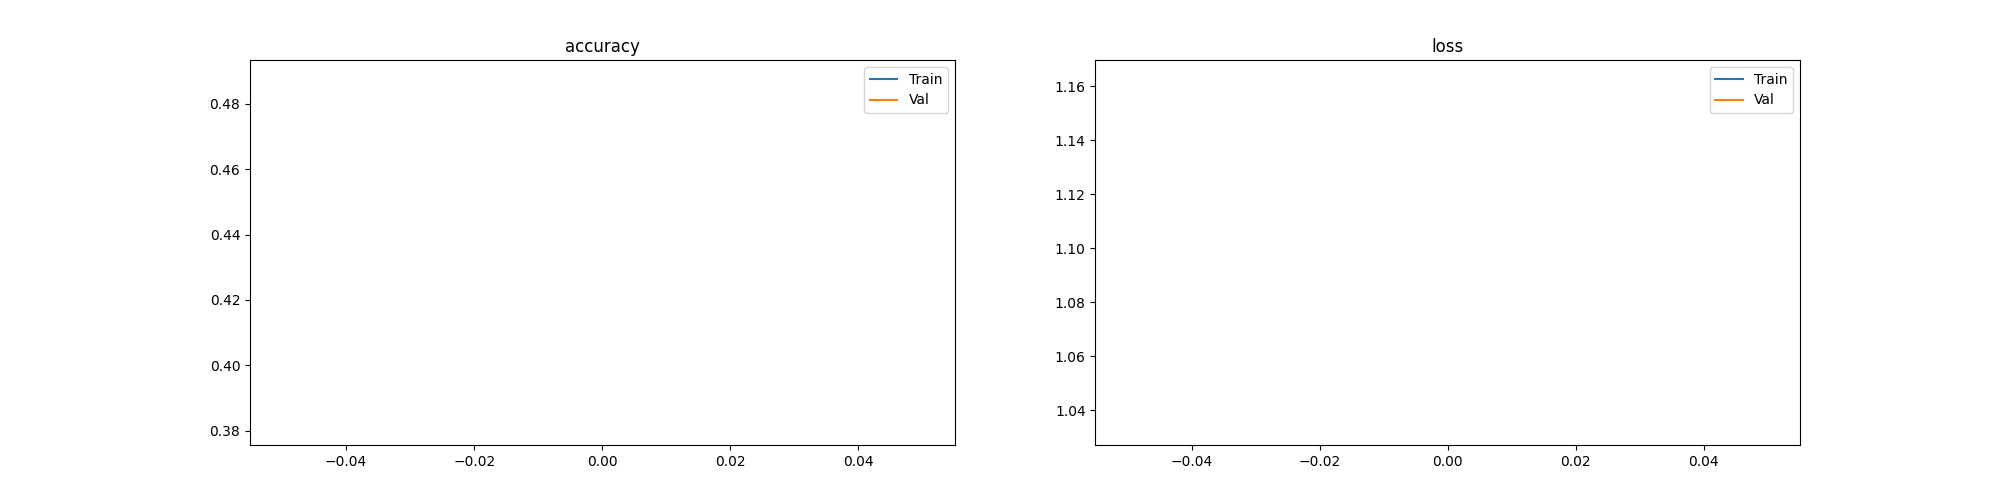
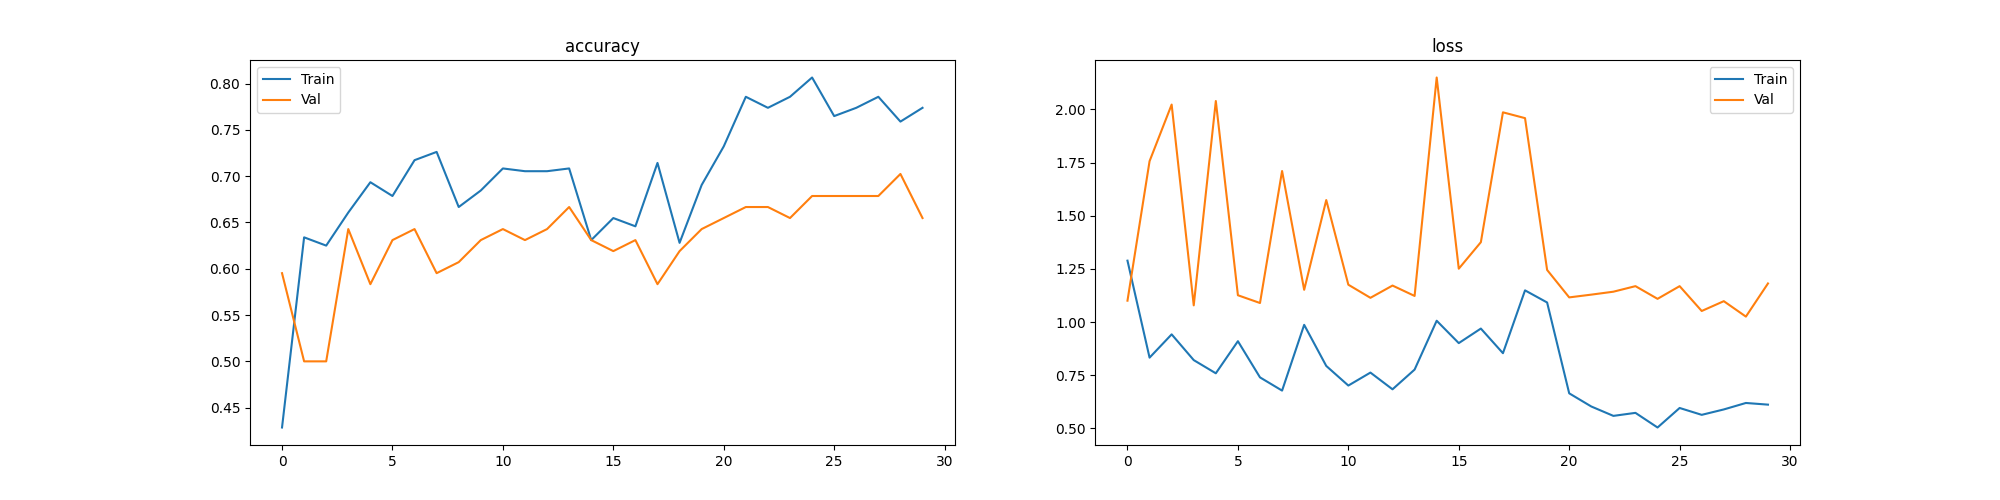
update model

diff --git a/training.py b/training.py
@@ -9,6 +9,7 @@ import torch.nn as nn
 from losses import FocalLoss
 from torch.optim import lr_scheduler
 import os
+from data import load_data
 
 
 
@@ -161,7 +162,8 @@ class PyTorchTrainable(tune.Trainable):
         # self.train_data_loader, self.valid_data_loader = load_data(BATCH_SIZE, NUM_WORKERS)
         
         # self.train_data_loader, self.valid_data_loader = self.trainable_data_loaderp["train"], self.trainable_data_loader["val"]
-        self.train_data_loader, self.valid_data_loader = config["data"][0]["train"], config["data"][0]["val"]
+        data_loader = load_data(32)[0]
+        self.train_data_loader, self.valid_data_loader= data_loader["train"], data_loader["val"]
         # create model        
         # base_model = torchvision.models.resnet50(pretrained=True)
         # for param in base_model.parameters():
@@ -171,7 +173,7 @@ class PyTorchTrainable(tune.Trainable):
         drop_rate = config.get("drop_rate", 0.0)        
         activation = config.get("activation", nn.ReLU(True))        
         base_model = config.get("base_model")
-        use_classifier = config.get("use_classifier")
+        use_classifier = config.get("use_classifier", False)
         loss = config.get("loss")
         
         # self.model = SimpleNet(base_model, 2048, num_units, drop_rate, activation)
@@ -185,7 +187,7 @@ class PyTorchTrainable(tune.Trainable):
             lr=config.get("learning_rate", 1e-4), 
             momentum=config.get("momentum", 0.9)
         )
-        self.exp_lr_scheduler = lr_scheduler.StepLR(self.optimizer, step_size=20, gamma=0.1)
+        # self.exp_lr_scheduler = lr_scheduler.StepLR(self.optimizer, step_size=20, gamma=0.1)
         
         
     def _train_step(self):
@@ -201,15 +203,18 @@ class PyTorchTrainable(tune.Trainable):
             labels = labels.to(self.device)
 
             self.optimizer.zero_grad()
+            
             with torch.set_grad_enabled(True):
-                preds = self.model(images)
-                loss = self.criterion(preds, labels)
+                outputs = self.model(images)
+                _, preds = torch.max(outputs, 1)
+                loss = self.criterion(outputs, labels)
+                loss.backward()
                 self.optimizer.step()
                 # track losses
                 epoch_loss += loss.item()
-                _, predicted = torch.max(preds.data, 1)
-                running_corrects += torch.sum(predicted == labels).item()
-        self.exp_lr_scheduler.step()
+
+                running_corrects += torch.sum(preds == labels).item()
+        # self.exp_lr_scheduler.step()
                 
         loss = epoch_loss/len(self.train_data_loader)
         corrects = running_corrects/len(self.train_data_loader)
@@ -218,29 +223,37 @@ class PyTorchTrainable(tune.Trainable):
     def _test_step(self):
         """Single test loop
         """        
+        epoch_loss = 0
         # set to model to eval mode
         self.model.eval()
         running_corrects = 0
-        for images, labels  in self.train_data_loader:
-            images = images.to(self.device)
-            labels = labels.to(self.device)
-            preds = self.model(images)
-            loss = self.criterion(preds, labels)
-            _, predicted = torch.max(preds.data, 1)
-            running_corrects += torch.sum(predicted == labels).item()
-                
-        corrects = running_corrects/len(self.valid_data_loader)
-        return corrects
+        with torch.inference_mode():
+            for images, labels  in self.valid_data_loader:
+                images = images.to(self.device)
+                labels = labels.to(self.device)
+                outputs = self.model(images)
+                _, preds = torch.max(outputs, 1)
+                # preds = self.model(images)
+                loss = self.criterion(outputs, labels)
+                epoch_loss += loss.item()
+                # predicted = torch.argmax(torch.softmax(preds,dim=1),dim=1)
+                running_corrects += torch.sum(preds == labels).item()
+                    
+            corrects = running_corrects/len(self.valid_data_loader)
+            loss = epoch_loss/len(self.valid_data_loader)
+            return corrects, loss
     
     def step(self):
         """Single training step
         """
         train_loss, train_acc = self._train_step()
-        test_acc = self._test_step()
+        test_acc, test_loss = self._test_step()
+
         return {
-            "train_loss": train_loss, 
-            "train_accuracy": train_acc,
-            "mean_accuracy": test_acc
+            "trloss": train_loss,
+            "tr_acc": train_acc,
+            "tst_acc": test_acc,
+            "tst_loss": test_loss
         }
 
     def save_checkpoint(self, dirname):

diff --git a/hyper_tune.py b/hyper_tune.py
@@ -1,25 +1,31 @@
 from ray import tune
 from ray.tune.schedulers import ASHAScheduler
 from training import PyTorchTrainable
-import ray
-import torch.nn as nn
-from data import load_data
-import argparse
-import os
-import torch
+from ray.tune import CLIReporter
+# import ray
+# import torch.nn as nn
 
+import argparse
+# import os
+import torch
+from ray.tune.search.hyperopt import HyperOptSearch
+from ray import air
 gpu_n = 0
 cpu_n = 0
 
 
 parser = argparse.ArgumentParser(
-                    prog = 'Hyperparameter Tuning',
-                    description = 'check different hyperparameters using ray tune and pytorch',
-                    epilog = 'you can change only number of cpus and gpus using command line.')
+    prog='Hyperparameter Tuning',
+    description='check different hyperparameters using ray tune and pytorch',
+    epilog='you can change only number of cpus and gpus using command line.')
 
 
-parser.add_argument('--cpu', type=int, help="number of cpus to use for processing", default=2)           # positional argument
-parser.add_argument('--gpu', type=int, help="number of gpus to use for processing", default=1)           # positional argument
+# positional argument
+parser.add_argument('--cpu', type=int,
+                    help="number of cpus to use for processing", default=2)
+# positional argument
+parser.add_argument('--gpu', type=int,
+                    help="number of gpus to use for processing", default=1)
 
 
 args = parser.parse_args()
@@ -29,17 +35,17 @@ if args.gpu > 0:
         gpu_n = 0
 cpu_n = args.cpu
 
-
-config = {
-    "hidden_units": tune.grid_search([ 64, 128, 256]),
-    "drop_rate": tune.uniform(0.0, 0.8),
-    "activation": tune.choice([nn.ReLU(True), nn.ELU(True), nn.SELU(True)]),
-    "learning_rate": tune.loguniform(1e-4, 1e-1),
+gpu_n = 1
+cpu_n = 10
+search_space = {
+    # "hidden_units": tune.grid_search([ 512, 128, 256]),
+    # "drop_rate": tune.uniform(0.0, 0.8),
+    # "activation": tune.choice([nn.ReLU(True), nn.ELU(True), nn.SELU(True)]),
+    "learning_rate": tune.loguniform(1e-3, 1e-1),
     "momentum": tune.uniform(0.1, 0.9),
-    "data" : load_data(os.path.join(os.path.abspath(os.getcwd()),"MYCATI/"),64),
-    "base_model": tune.choice(["vgg","resnet"]),
-    "use_classifier": tune.choice([True,False]),
-    "loss": tune.choice(["focal","cross"]),
+    # "base_model": tune.choice(["vgg", "resnet"]),
+    "base_model": tune.choice([ "resnet"]),
+    "loss": tune.choice(["focal", "cross"]),
 
 }
 
@@ -47,26 +53,36 @@ config = {
 scheduler = ASHAScheduler(metric="mean_accuracy", mode="max")
 
 
+search_alg = HyperOptSearch()
 
-from datetime import datetime
-from time import time
-ray.shutdown()
+if gpu_n > 0:
+    trainable = tune.with_resources(
+        PyTorchTrainable, {"gpu": gpu_n, "cpu": cpu_n})
+else:
+    trainable = PyTorchTrainable
 
-# ray.init(dashboard_host="0.0.0.0")
 
-start = time()
-# run trials
-analysis = tune.run(
-    PyTorchTrainable,
-    config=config,
-    num_samples=15, # runs 15 jobs with separate sample from the search space
-    checkpoint_at_end=True,
-    checkpoint_freq=3,    
-    scheduler=scheduler,
-    stop={"training_iteration": 50},
-    resources_per_trial={"cpu": cpu_n, "gpu": gpu_n}
-   
+reporter = CLIReporter(max_progress_rows=50)
+metric_list = ["trloss", "tr_acc", "tst_acc", "tst_loss"]
+for metric in metric_list:
+    reporter.add_metric_column(metric)
 
-   
+
+tuner = tune.Tuner(
+    trainable,
+    param_space=search_space,
+    tune_config=tune.TuneConfig(
+        num_samples=5,
+        metric="tst_loss",
+        mode="min",
+        max_concurrent_trials=10,
+        search_alg=search_alg
+    ),
+    run_config=air.RunConfig(
+        progress_reporter=reporter,
+        stop=tune.stopper.MaximumIterationStopper(50)
+        )
 )
-stop = time()
+
+
+results = tuner.fit()

diff --git a/main.py b/main.py
@@ -12,14 +12,14 @@ import matplotlib.pyplot as plt
 import time
 import os
 import copy
-import seaborn as sns
+# import seaborn as sns
 import matplotlib.pyplot as plt
 
 cudnn.benchmark = True
 plt.ion()   # interactive mode
 
 
-EPOCHS = 1
+EPOCHS = 30
 save_name = "res_1_ce_sgd_b64_train_val_ilr001"
 
 from data import MyDataset, load_data
@@ -29,12 +29,12 @@ from losses import FocalLoss
 
 
 
-batch_size = 64
+batch_size = 32
 
 
 data_dir = "MYCATI"
 
-dataloaders, class_names, dataset_sizes = load_data(data_dir, batch_size)
+dataloaders, class_names, dataset_sizes = load_data(batch_size)
 
 
 device = torch.device("cuda:0" if torch.cuda.is_available() else "cpu")

diff --git a/data.py b/data.py
@@ -4,6 +4,7 @@ import torch
 from torch.utils.data import Dataset
 from sklearn.model_selection import train_test_split
 from torchvision import  transforms, datasets
+import os
 
 
 class MyDataset(Dataset):
@@ -21,8 +22,10 @@ class MyDataset(Dataset):
         return len(self.subset)
 
 
-def load_data(data_dir,batch_size=32, num_workers=4 ):
+def load_data(batch_size=32, num_workers=4 ):
 
+    # data_dir = os.path.join(os.path.abspath(os.getcwd()),"MYCATI/")
+    data_dir = os.path.join("/home/mtcv/Desktop/milad/rafail","MYCATI/")
     data_transforms = {
         
         'train': transforms.Compose([
